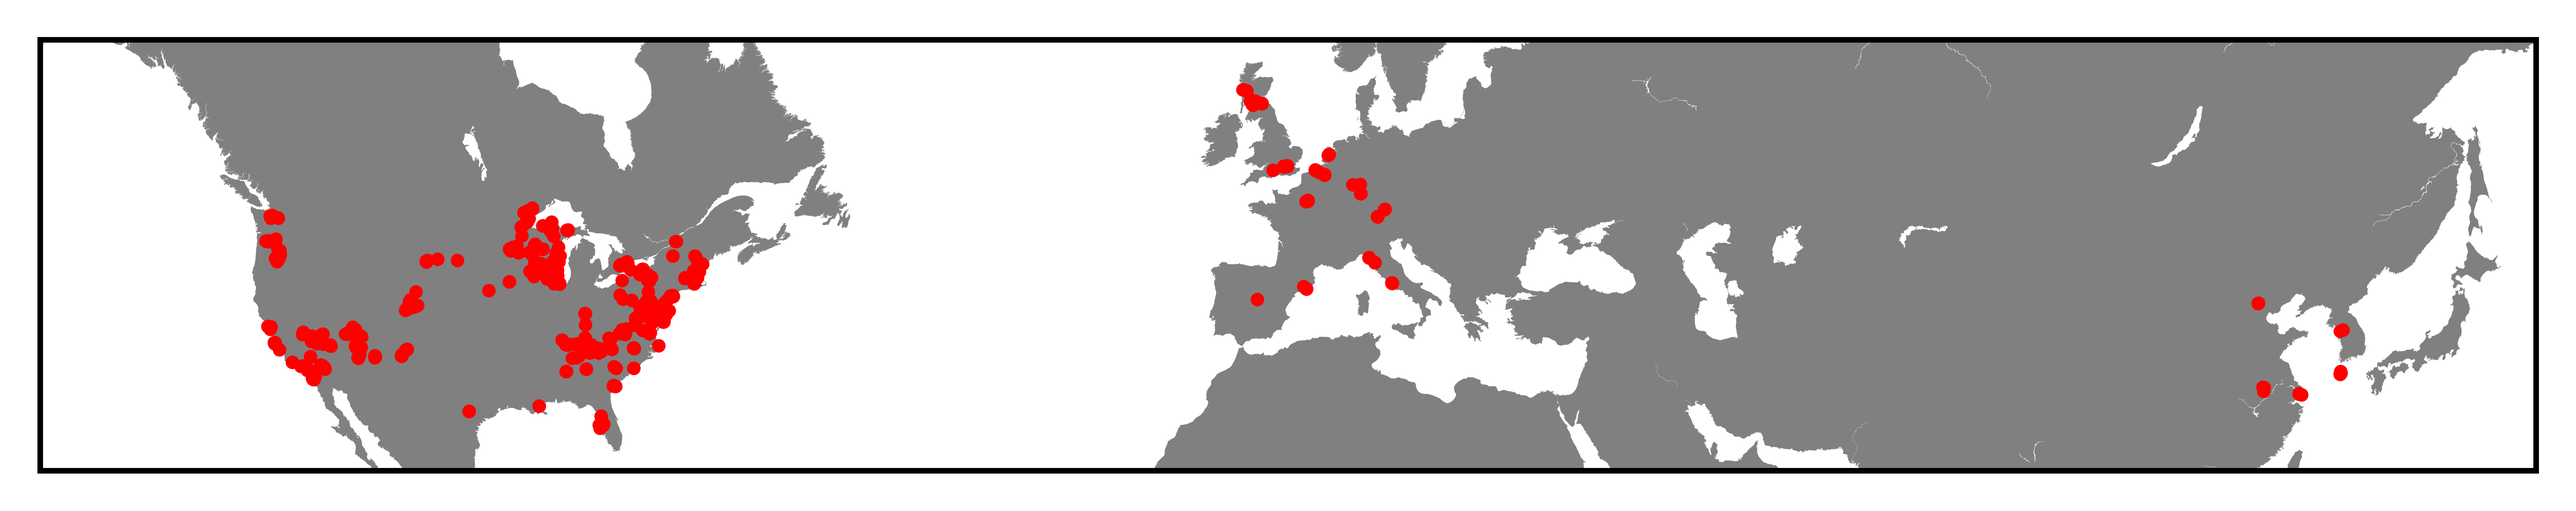
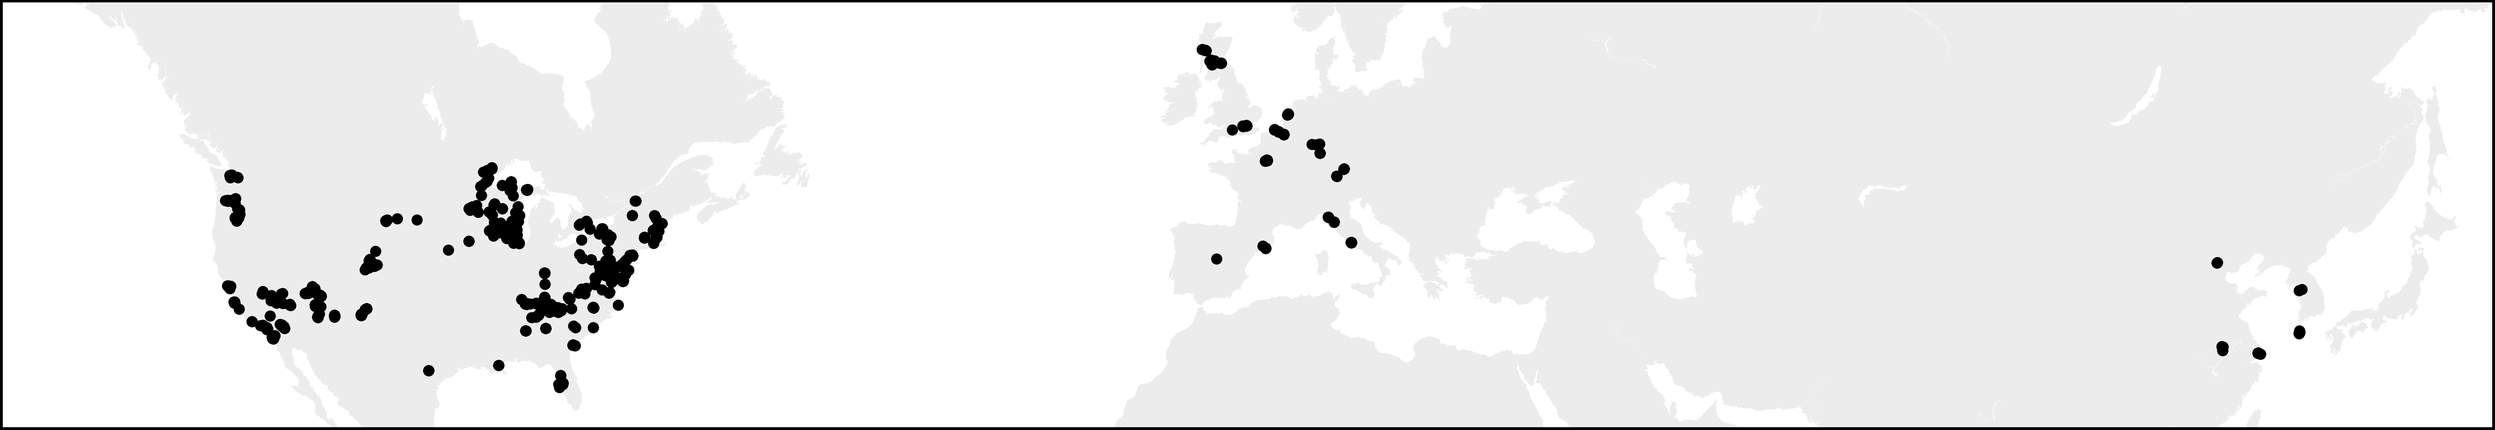
updated map

diff --git a/map/plot.py b/map/plot.py
@@ -28,12 +28,13 @@ m = Basemap(llcrnrlon=lon_min,
             lon_0=(lon_max-lon_min)/2,
             projection='merc',
             resolution = 'h',
+            #resolution = 'c',
             area_thresh=10000.,
             )
 
-land_color="gray"
+land_color="#ececec"
 water_color="white"
-marker_color="red"
+marker_color="black"
 
 m.drawmapboundary(fill_color=water_color)
 m.fillcontinents(color = land_color, lake_color=water_color)
@@ -42,6 +43,6 @@ m.fillcontinents(color = land_color, lake_color=water_color)
 lons, lats = m(lon, lat)
 
 # plot points as red dots
-m.scatter(lons, lats, marker = 'o', s=2, color=marker_color, zorder=5)
+m.scatter(lons, lats, marker = 'o', s=1, color=marker_color, zorder=5)
 
-plt.savefig("map.png", bbox_inches="tight", dpi=1000)
+plt.savefig("map.png", bbox_inches="tight", dpi=1000, pad_inches=0)
